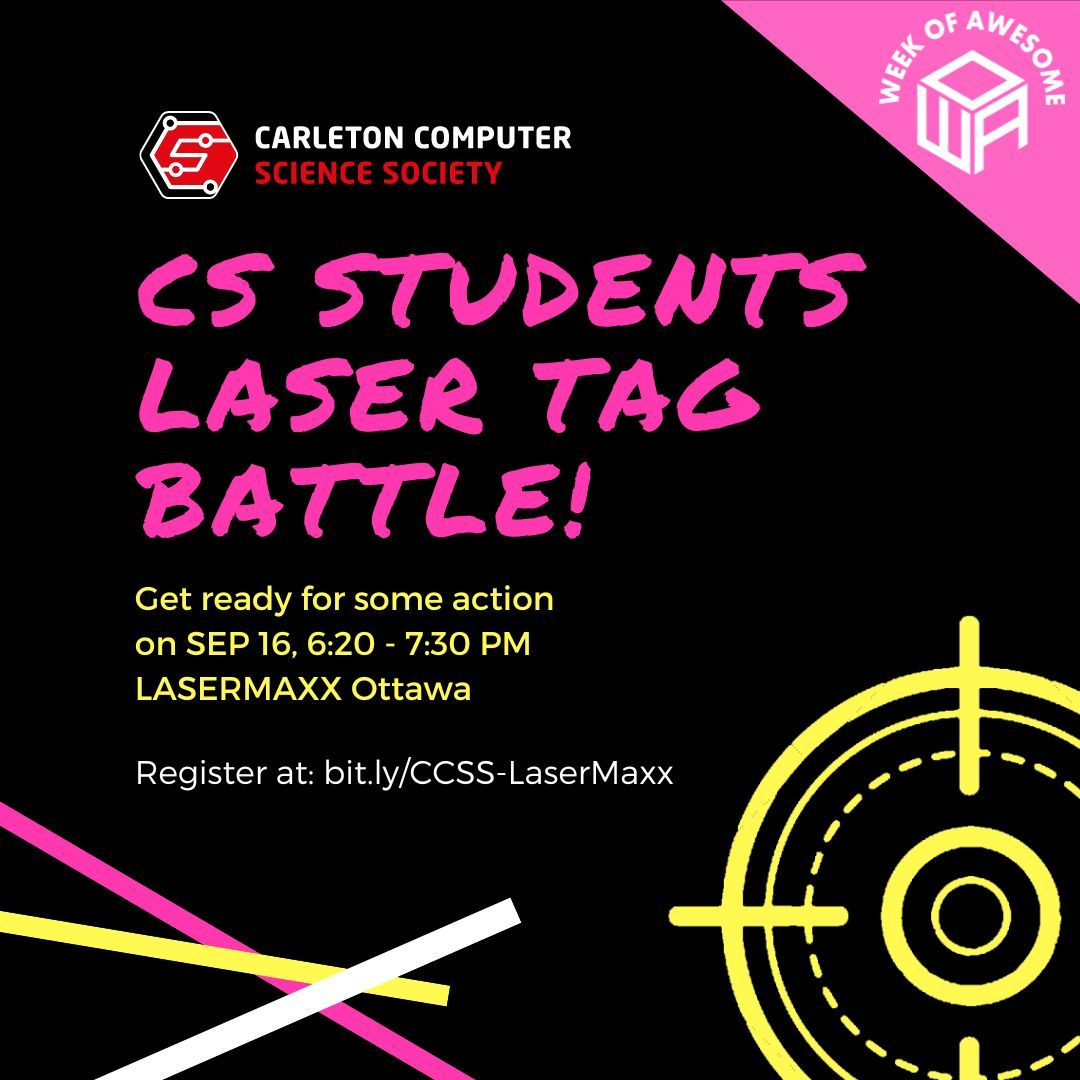
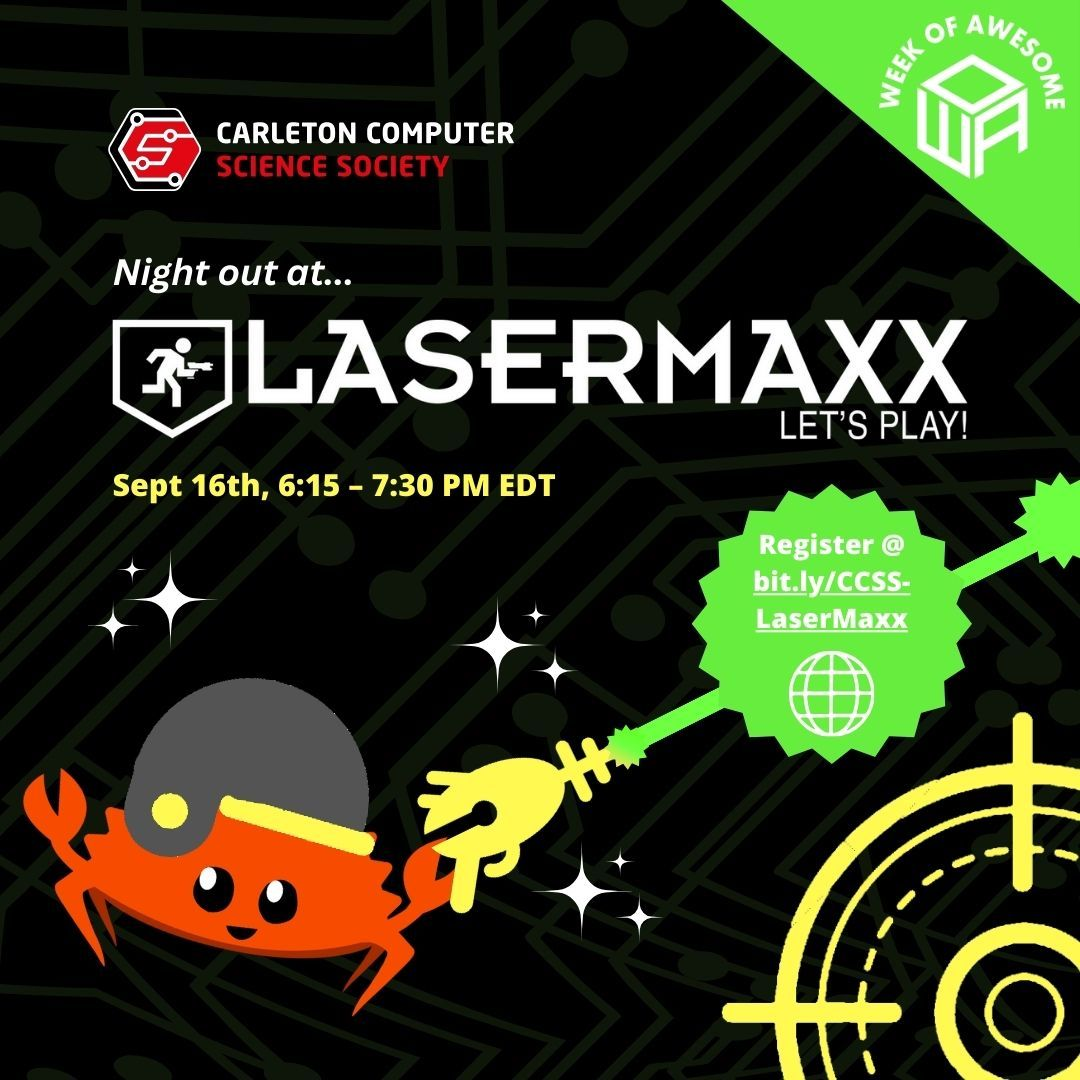
Add event updates (#319)
* fixing posters

* Update 2023-09-16-laser-tag.md

* checking

* Optimised images with calibre/image-actions

* updating volunteer form

* updated hoodie store link

* fixed the lasermaxx times

* Optimised images with calibre/image-actions

---------

diff --git a/layouts/_default/volunteer.html b/layouts/_default/volunteer.html
@@ -15,7 +15,7 @@
               The Carleton Computer Science Society is creating a variety of CCR
               accredited volunteer oppurtunities.
             </div>
-            <a href="https://forms.gle/XEpTdXywWJqbohFi9"
+            <a href="https://forms.gle/ewT1J4byJMAJkApW7"
               >{{- partial "button.html" (dict "label" "Apply Now") -}}</a
             >
           </div>

diff --git a/layouts/partials/navbar_temp.html b/layouts/partials/navbar_temp.html
@@ -44,7 +44,7 @@
           <ul>
             <li>
               <a
-                href="https://carletoncss.myshopify.com/products/new-ccss-fleece-hoodie-1"
+                href="https://carletoncss.myshopify.com/products/2023-2024-ccss-hoodie"
                 >STORE</a
               >
             </li>

diff --git a/content/events/2023-2024/2023-09-16-laser-tag.md b/content/events/2023-2024/2023-09-16-laser-tag.md
@@ -7,15 +7,15 @@ layout: event
 poster: "images/event_posters/2023-2024/laser_tag.jpg"
 poster_cover: "contain"
 poster_position: "center"
-short_description: "Have fun at the first ever CCSS Laser Tag! Get your ticket below!"
-start_time: "6:20 - 7:40 PM EST"
+short_description: "Have fun at the first ever CCSS Laser Tag! Buy your ticket below!"
+start_time: "6:15 - 7:30 PM EST"
 location: LaserMaxx Ottawa
 location_link: "https://lasermaxxcanada.com/"
 background: "images/orientation2018-min.jpeg"
-publishdate: 2023-08-25
+publishdate: 2023-09-02
 tags:
 - weekofawesome2023
 ---
 You'll need to purchase a ticket to attend with the group, as there are only 30 spots available.
 
-Tickets: https://lasermaxxcanada.com/
+Tickets: https://carletoncss.myshopify.com/products/lasermaxx-ticket

diff --git a/content/events/2023-2024/2023-09-10-code-challenge.md b/content/events/2023-2024/2023-09-10-code-challenge.md
@@ -1,0 +1,22 @@
+---
+display_title: "Daily Code Challenge"
+title: "Daily Code Challenge"
+date: 2023-09-10T00:00:00Z
+draft: false
+layout: event
+poster: "images/event_posters/2023-2024/code_challenge.jpg"
+poster_cover: "contain"
+poster_position: "center"
+short_description: "New code challenges will release each day of week of awesome!"
+start_time: "Sept 10th - Sept 16th"
+location: "Official Site"
+location_link: "https://code.carletoncomputersciencesociety.ca/"
+background: "images/orientation2018-min.jpeg"
+publishdate: 2023-09-02
+tags:
+- weekofawesome2022
+---
+
+## Description
+
+Complete problems for a chance of winning gift cards and prizes!

diff --git a/content/events/2023-2024/2023-09-07-puzzle-quest.md b/content/events/2023-2024/2023-09-07-puzzle-quest.md
@@ -1,0 +1,17 @@
+---
+display_title: "Puzzle Quest"
+title: "Puzzle Quest"
+date: 2023-09-07T00:00:00Z
+draft: false
+layout: event
+poster: "images/event_posters/2023-2024/puzzle_quest.jpg"
+poster_cover: "contain"
+poster_position: "center"
+short_description: "Run around campus searching for statues, relics, and just learn about Carleton University in our fun little quest"
+start_time: "8:00 - 9:30 PM EDT"
+location: 
+background: "images/orientation2018-min.jpeg"
+publishdate: 2023-09-02
+tags:
+- weekofawesome2023
+---
